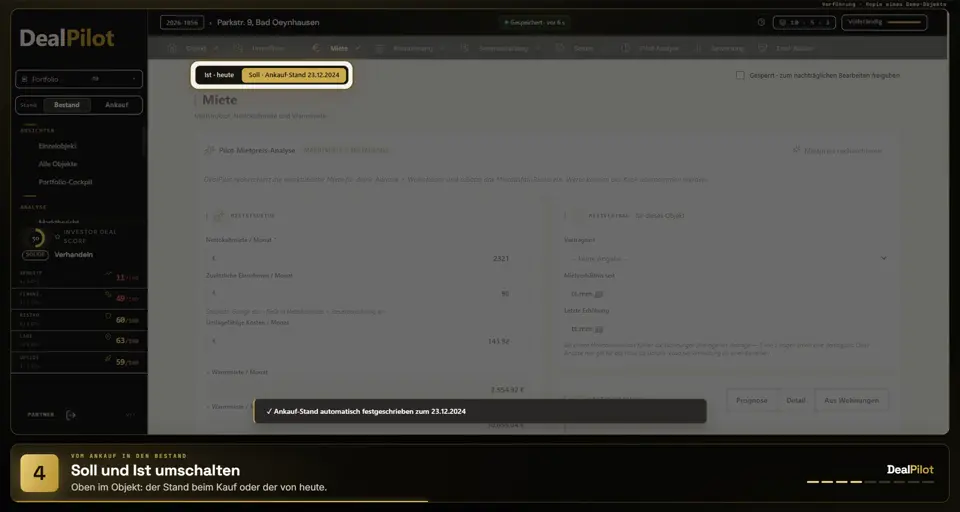
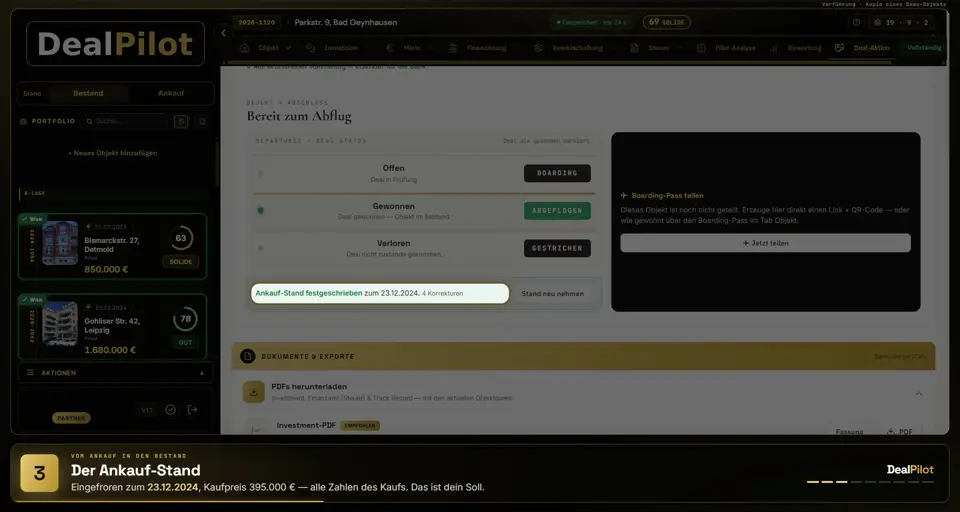
v2968b: Videothek - Vorschaubilder Modul 14/18 neu, Modul 14 neu vertont
- Vorschaubilder Modul 14 (Ankauf-Stand, Kaufpreis 395.000) und 18 (Lage)
  aus den neuen Aufnahmen; dp2-live.js haengt ?v=v2968 an die Bilder,
  Videos ?v=marcel-20261026b (Modul 14 neu), Buster landing-videothek-4f
- videos.json Modul 14 dauer 158
- FALLEN.md: Skript-loadData eines gewonnenen Objekts ohne _ankauf
  speichert sofort (26.10. an Parkstr. 9 auf Staging passiert)

diff --git a/frontend/landing/dp2-live.js b/frontend/landing/dp2-live.js
@@ -27,7 +27,8 @@
      `datei_ton`; die Wahl merkt sich der Browser, Standard: mit Sprecher. */
   var TON = true;
   try { TON = localStorage.getItem('dp_vt_ton') !== '0'; } catch (e) {}
-  function datei(v) { return ((TON && v && v.datei_ton) ? v.datei_ton : v.datei) + '?v=marcel-20261026'; }   /* v2967 · neue Stimme: Videos neu laden statt aus dem Cache */
+  function datei(v) { return ((TON && v && v.datei_ton) ? v.datei_ton : v.datei) + '?v=marcel-20261026b'; }   /* v2967 · neue Stimme: Videos neu laden statt aus dem Cache */
+  function bild(v, D) { return D.basis_bilder + v.poster + '?v=v2968'; }   /* v2968 · Vorschaubilder Modul 14/18 neu: neu laden statt aus dem Cache */
   function tonText() { return TON ? 'Mit Sprecher ✓' : 'Ohne Sprecher'; }
   var ruhig = matchMedia('(prefers-reduced-motion: reduce)').matches;
   var PLAY = '<svg viewBox="0 0 24 24" aria-hidden="true"><path d="M7 4.5v15l13-7.5z"/></svg>';
@@ -110,7 +111,7 @@
       streifen.innerHTML = liste.map(function (v, i) {
         return '<button class="dpl-w" data-i="' + i + '" aria-label="' + esc(v.titel) + ' abspielen">' +
           '<span class="dpl-wp"></span>' +
-          '<img src="' + esc(D.basis_bilder + v.poster) + '" alt="" loading="lazy" width="212" height="119">' +
+          '<img src="' + esc(bild(v, D)) + '" alt="" loading="lazy" width="212" height="119">' +
           '<span class="dpl-wd">' + mmss(v.dauer) + '</span>' +
           '<span class="dpl-wt"><span class="dpl-wn">' + esc(v.kategorie === 'ueberblick' ? 'ÜBERBLICK ' + String(v.nr).replace('Ü', '') : 'MODUL ' + v.nr) + '</span><b>' + esc(v.titel) + '</b></span>' +
         '</button>';
@@ -136,7 +137,7 @@
       var v = liste[idx];
       bild.classList.add('wechsel'); karte.classList.add('wechsel');
       setTimeout(function () {
-        vid.setAttribute('poster', D.basis_bilder + v.poster);
+        vid.setAttribute('poster', bild(v, D));
         vid.preload = scharf ? 'metadata' : 'none';
         vid.src = D.basis_medien + datei(v);
         karteFuellen(v);
@@ -259,7 +260,7 @@
         '<div class="vt-raster">' + vs.map(function (v) {
           var such = [v.titel, v.unterzeile, v.story, v.nutzen, (v.kapitel || []).join(' '), v.nr].join(' ').toLowerCase();
           return '<button class="vt-k" data-id="' + esc(v.id) + '" data-such="' + esc(such) + '">' +
-            '<span class="vt-kb"><img src="' + esc(D.basis_bilder + v.poster) + '" alt="" loading="lazy" width="480" height="256">' +
+            '<span class="vt-kb"><img src="' + esc(bild(v, D)) + '" alt="" loading="lazy" width="480" height="256">' +
               '<span class="vt-nr">' + esc(v.nr) + '</span><span class="vt-d">' + mmss(v.dauer) + '</span><span class="vt-play">' + PLAY + '</span></span>' +
             '<span class="vt-kt"><b>' + esc(v.titel) + '</b><span class="vt-u">' + esc(v.unterzeile) + '</span><span class="vt-s">' + esc(v.story) + '</span></span>' +
           '</button>';
@@ -315,7 +316,7 @@
       var i = -1; V.forEach(function (v, j) { if (v.id === id) i = j; });
       if (i < 0) return;
       aktuell = i; var v = V[i];
-      kv.setAttribute('poster', D.basis_bilder + v.poster);
+      kv.setAttribute('poster', bild(v, D));
       kv.src = D.basis_medien + datei(v);
       kino.querySelector('#vtKinoText').innerHTML =
         '<div class="dpl-k-kick"><span>' + esc(nrLabel(v, D)) + '</span><span>' + mmss(v.dauer) + ' Min.</span></div>' +

diff --git a/frontend/landing/index.html b/frontend/landing/index.html
@@ -689,7 +689,7 @@
 <script src="dp2-video.js?v=v1570"></script>
 <script src="demo-steuer-daten.js?v=v1600"></script>
 <script src="dp2.js?v=v1570"></script>
-<script src="dp2-live.js?v=landing-videothek-4e"></script><!-- landing-videothek-1 -->
+<script src="dp2-live.js?v=landing-videothek-4f"></script><!-- landing-videothek-1 -->
 <!-- v1588: Zwei Funktionen, die der alten Landing schon gehoerten und
      hier gefehlt haben. Beide betreffen Geld, deshalb standen sie ganz
      oben auf der Abgleichsliste:

diff --git a/FALLEN.md b/FALLEN.md
@@ -4608,3 +4608,18 @@ Windows **13 px** hoch (`offsetHeight − clientHeight`), auf Mac/iPad mit
 Überlagerungsbalken 0. Er erscheint nur, wenn die Leiste überläuft. Wer an
 Höhenverträgen unter `nav.tabs` rechnet (`top:178px`-Muster), misst auf
 beiden Systemen.
+
+## `loadData()` eines gewonnenen Objekts ohne `_ankauf` speichert sofort
+
+Gemessen am 26.10.2026 an Parkstr. 9 (Staging): Wer per Skript einen
+Datensatz ohne `_ankauf` in ein Objekt mit `_deal_won` lädt (etwa um einen
+früheren Stand nachzurechnen), löst `DealPilotAnkauf.vonSelbst()` aus. Das
+schreibt einen Ankauf-Stand fest **und speichert das Objekt** — der
+Zwischenstand stand nach einer Sekunde in der Datenbank, der alte
+Ankauf-Stand samt Korrekturnachweis war überschrieben. Behoben nur, weil der
+heutige Stand vorher als Kopie im Fenster lag und die DB gesichert war.
+
+**Regel:** Vor jedem Skript-`loadData` mit fremdem Stand `saveObj` stummschalten
+(`window.__saveOrig = saveObj; saveObj = async function(){}`), danach
+zurücksetzen und den Endstand gegen einen vorher gezogenen DB-Abzug
+Feld für Feld vergleichen. Auch `runAI()` speichert von selbst.
